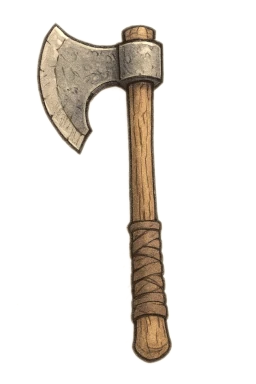
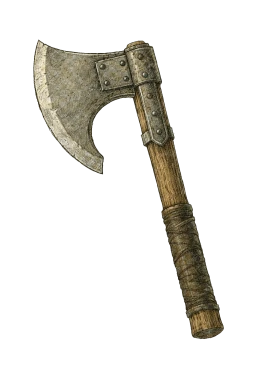
tier 7 items

Changed region(s): [[0.125, 0.0625, 0.875, 0.9688]]

diff --git a/frontend/src/components/ui/tooltip.rs b/frontend/src/components/ui/tooltip.rs
@@ -241,7 +241,7 @@ where
                 absolute
                 px-2 py-1 xl:px-3 xl:py-1 text-xs xl:text-sm text-white font-normal
                 bg-zinc-900 border border-neutral-200
-                rounded shadow-lg whitespace-nowrap z-50 select-none
+                rounded shadow-lg/30 whitespace-nowrap z-50 select-none
                 {} {}
                 ",
                     position_classes,

diff --git a/CHANGELOG.md b/CHANGELOG.md
@@ -6,7 +6,8 @@ Features:
 
 - Added new type of item: Edict. Edicts can be applied to a Grind on startup, increasing monster power and rewards.
 - Added new type of item: Rune. Runes can be socketed in Passives Tree in Town, from Ascend panel, changing the effects of the node.
-- Added new magic affixes.
+- Added new magic affixes one giving massive increase in spell damage at the cost of more mana, and the other in attack damage at the cost of speed.
+- Added tier 7 base items.
 - Minor visual improvements to the interface.
 
 Balance Changes:
